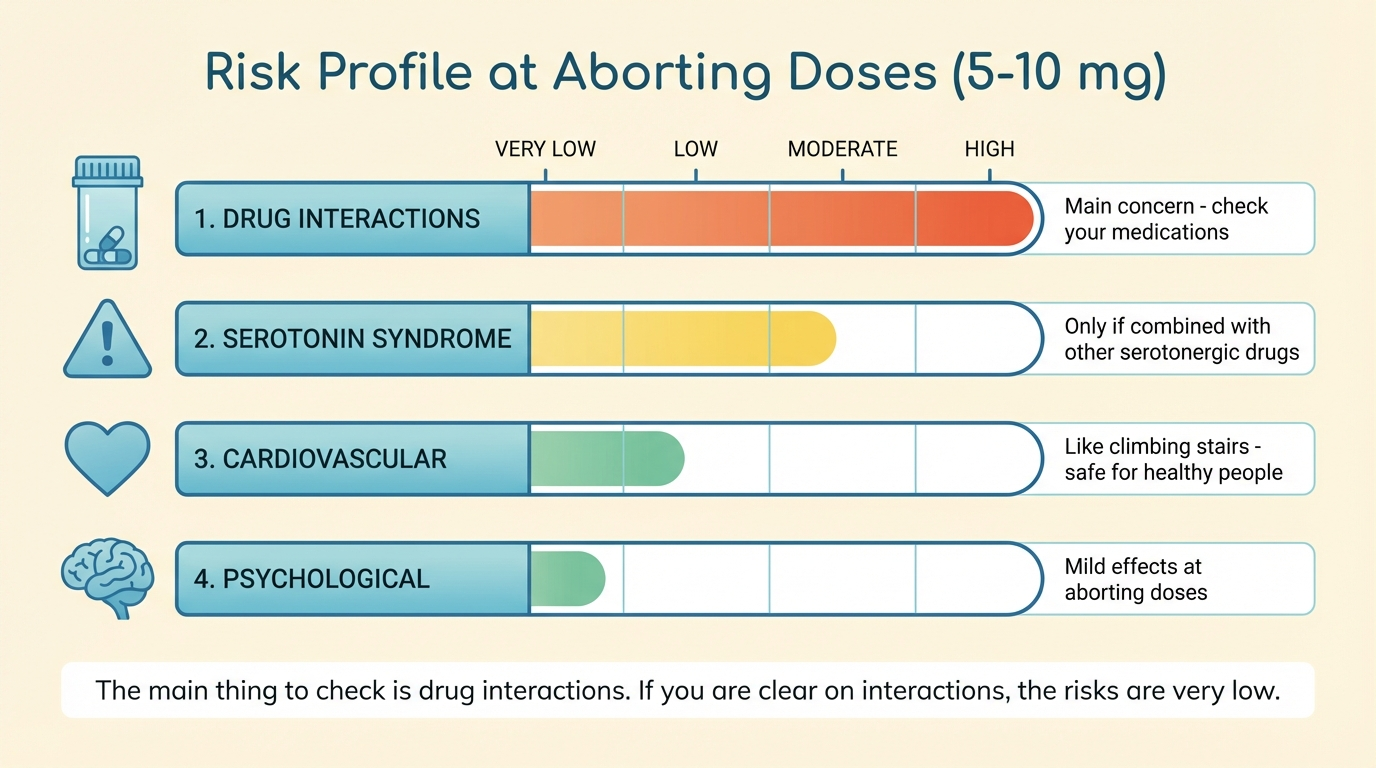
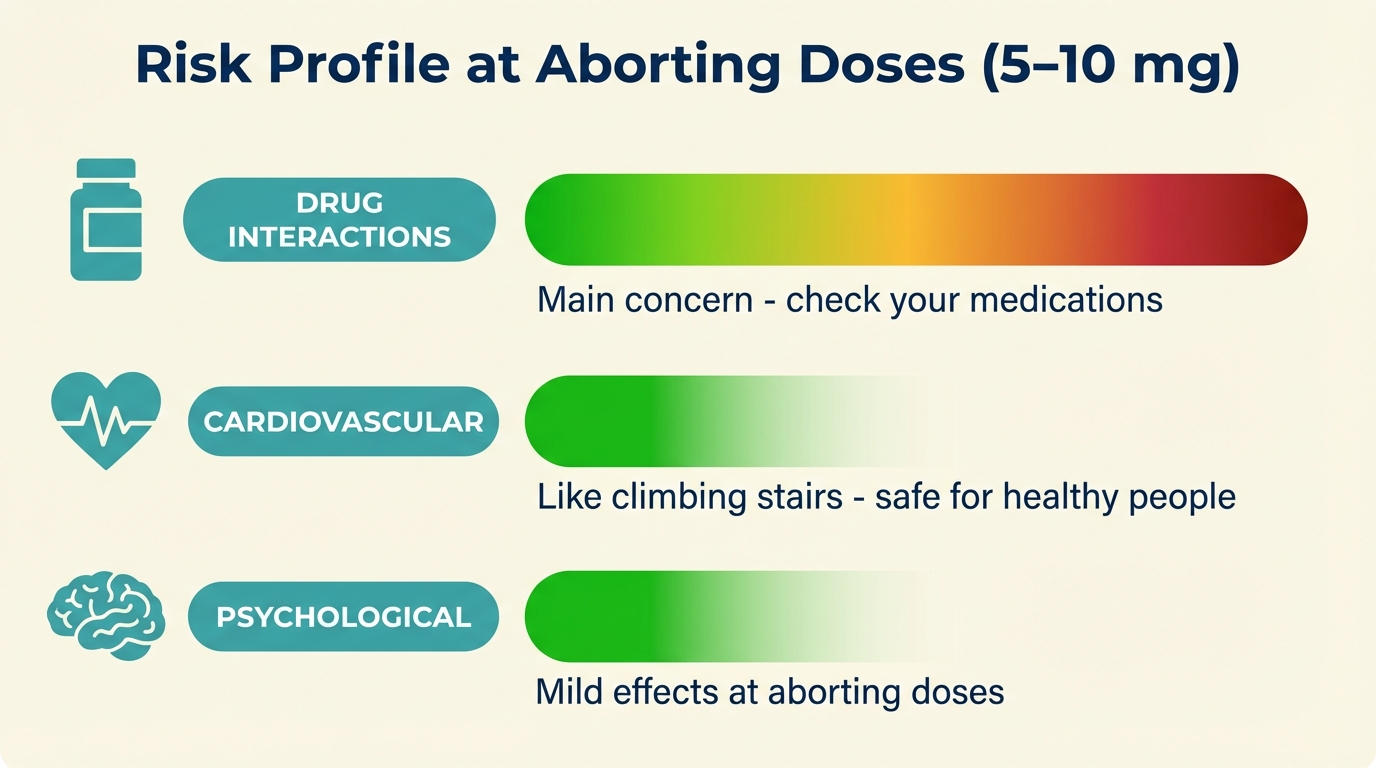
Restructure safety section for better flow and add fact-check skill
Move safety checklist and key warnings to the top so readers encounter
critical information first. Expand serotonin syndrome section with sitter
callout and clearer normal-vs-abnormal guidance. Integrate "Who Should
Not Take DMT" content into earlier sections to reduce redundancy.
Regenerate illustrations. Add fact-check skill for verifying guide claims.

diff --git a/03-safety.md b/03-safety.md
@@ -1,46 +1,139 @@
 # Safety and Drug Interactions
 
-The [basics page](02-dmt-basics.md) gave you the short version: DMT is generally low-risk, but drug interactions are the main concern. This page goes deeper. **If you take any medication, supplement, or herbal remedy, read this page before your first use.** Even if you take nothing, the sections on serotonin syndrome and who should avoid DMT are worth reading.
+## How Safe Is This?
 
-> **The bottom line up front:**
->
-> - If you take **lithium**, stop here — **do not take DMT**. The combination can cause seizures.
-> - If you take **any other medication**, check the table below before your first use.
-> - If you take **nothing**, the risks are very low. Skim the rest of this page and move on to [preparation](05-what-youll-need.md).
+The [basics page](02-dmt-basics.md) gave you the short version. Here's the fuller picture: at the low doses used to abort cluster headache attacks (5–10 mg), DMT's cardiovascular and psychological risks are very low for healthy people. The main concern — and the reason this page exists — is **drug interactions**, specifically with medications that affect serotonin.
+
+![Safety profile summary — at aborting doses, drug interactions are the primary concern while cardiovascular and psychological risks are minimal for most people](images/illustration-safety-profile-summary.jpg)
+*At aborting doses, the overall safety profile is favorable. Drug interactions are the main concern. Cardiovascular and psychological risks are minimal for most people. If you're curious, you can read more about those minimal risks below.*
 
 ---
 
-## Check Your Medications
+**Safety Checklist**
 
-DMT acts on the brain's serotonin system — serotonin is a chemical your brain uses to regulate mood, sleep, and pain. Many common medications also target this system. When two drugs affect serotonin at the same time, their effects can combine in dangerous ways. Before you use DMT for the first time, **make a list of everything you take** — prescriptions, over-the-counter medications, supplements, herbal remedies — and check it against this table.
+Complete every item on this list before your first use of DMT.
+
+- [ ] **Medications listed.** I have written down all medications, supplements, and herbal remedies I take.
+- [ ] **Interactions checked.** I have checked each one against the [drug interactions table](#check-your-medications) below.
+- [ ] **Doctor consulted (if needed).** If advised for the medications I take (see table), I have talked to my doctor.
+- [ ] **Serotonin syndrome understood.** I understand the [symptoms](#symptoms) and know when to call for help.
+- [ ] **Sitter arranged.** I have a [sitter](06-aborting-protocol.md#your-sitter-what-they-need-to-know) for my first few times, and they have also read this page.
+- [ ] **Triptan washout (if applicable).** If I take triptans, I will wait at least 24 hours after my last dose before using DMT.
+
+## Drug Interactions at a Glance
+
+DMT acts on the brain's serotonin system — serotonin is a chemical your brain uses to regulate mood, sleep, and pain. Many common medications also target this system. When two drugs affect serotonin at the same time, their effects can combine in unwanted ways.
+
+Here's the quick summary:
+
+- **Lithium** is a hard stop — **do not take DMT** while on lithium (seizure risk).
+- **MAOIs** carry medium-high risk and require a doctor's involvement.
+- **SSRIs / SNRIs** need a doctor conversation — the risk is generally low with a single medication, but it's not zero.
+- **Triptans** need a timing gap (at least 24 hours; frovatriptan: 5 days).
+- **Everything else** — check with your doctor.
+
+The danger is not taking DMT while on these medications *per se* — it's doing so **without knowing about serotonin syndrome and what to do if it occurs**. If you take any serotonergic medication, the most important thing is to understand serotonin syndrome ([next section](#serotonin-syndrome-what-you-need-to-know)), know the signs, know what to do, and make sure your [sitter](06-aborting-protocol.md#your-sitter-what-they-need-to-know) knows too.
+
+![Drug interaction risk levels — visual summary showing lithium as a hard stop, MAOIs as medium-high risk, SSRIs and SNRIs as moderate risk, triptans as low-to-moderate risk, and other serotonergic drugs as variable risk](images/illustration-drug-interaction-risk.jpg)
+*Drug interaction risk levels at a glance.*
+
+### Check Your Medications
+
+Before you use DMT for the first time, **make a list of everything you take** — prescriptions, over-the-counter medications, supplements, herbal remedies — and check it against this table.
 
 | Drug / Category | Examples (brand names) | Risk | What to do |
 | :--- | :--- | :--- | :--- |
 | **Lithium** | Lithobid, Eskalith | **Seizure risk — do not take DMT** | No workaround. DMT is not an option while on lithium. |
-| **MAOIs** | Phenelzine (Nardil), tranylcypromine (Parnate), isocarboxazid (Marplan), moclobemide (Manerix); antibiotics: linezolid; plant-based: ayahuasca, Syrian rue, changa | **High — serotonin syndrome** | Must talk to your doctor. Must always have a [sitter](06-aborting-protocol.md#your-sitter-what-they-need-to-know) (a trusted person who stays with you to monitor your safety). Read the [serotonin syndrome section](#serotonin-syndrome-what-you-need-to-know) below. |
+| **MAOIs** | Phenelzine (Nardil), tranylcypromine (Parnate), isocarboxazid (Marplan), moclobemide (Manerix); antibiotics: linezolid; plant-based: ayahuasca, Syrian rue, changa | **Medium-high — serotonin syndrome risk** | Must talk to your doctor. Must always have a [sitter](06-aborting-protocol.md#your-sitter-what-they-need-to-know). Read the [serotonin syndrome section](#serotonin-syndrome-what-you-need-to-know) below. |
 | **SSRIs / SNRIs** | Fluoxetine (Prozac), sertraline (Zoloft), paroxetine (Paxil), citalopram (Celexa), escitalopram (Lexapro), venlafaxine (Effexor), duloxetine (Cymbalta) | **Medium — serotonin effects can stack** | Talk to your doctor. |
 | **Triptans** | Sumatriptan (Imitrex), rizatriptan (Maxalt), zolmitriptan (Zomig), frovatriptan (Frova) | **Low serotonin risk, cardiovascular concern** | Wait at least 24 hours after your last triptan dose (frovatriptan: at least 5 days). See [triptans](#triptans) below. |
 | **Other serotonergic drugs** (drugs that affect serotonin) | Tricyclic antidepressants (clomipramine, imipramine), opioids (tramadol, fentanyl), dextromethorphan (in many cough medicines), St. John's Wort, amphetamines (Adderall), MDMA / ecstasy | **Variable — depends on the combination** | Talk to your doctor. |
 
 > If your medication isn't on this list, **don't assume it's safe**. Search for your medication name plus "serotonin" online, or ask your doctor or pharmacist.
 
+> **How to talk to your doctor about DMT**
+>
+> Many doctors have limited knowledge of DMT, and you may worry about being judged. Here's a suggested approach:
+>
+> 1. **Frame it as harm reduction.** "I have cluster headaches, and I've been reading about people using low-dose DMT to abort attacks. I'd like your help making sure it's safe with my medications."
+> 2. **Bring this page.** Show them the [medication table](#check-your-medications) and the [serotonin syndrome section](#serotonin-syndrome-what-you-need-to-know). Doctors respond well to specific, concrete questions.
+> 3. **Ask about your specific medications.** "Can you check whether any of my prescriptions interact with a serotonin receptor agonist?"
+> 4. **Know that they can't report you.** Doctor-patient conversations are confidential. Your doctor may advise against it, but they cannot report you to law enforcement for asking.
+
+---
+
+## Serotonin Syndrome: What You Need to Know
+
+> **Share this section with your sitter.** If you take any serotonergic medication, make sure the person who stays with you during your first uses has read this section too.
+
+Serotonin syndrome happens when your brain is flooded with too much serotonin. It's most likely when DMT is combined with another drug that also raises serotonin — especially MAOIs, or multiple serotonergic drugs stacking together. It is treatable, and knowing the signs is what makes it manageable rather than dangerous.
+
+The risk increases with higher doses and more serotonergic drugs — but it's hard to predict in advance exactly which combination or dose will trigger it. That's why we recommend talking to your doctor, starting with low doses, and having a sitter.
+
+> **Normal DMT effects vs. serotonin syndrome:** A faster heartbeat, sweating, and dilated pupils are also normal effects of DMT. The key difference is **severity and combination**. A slightly faster heartbeat on its own is expected. But several of these symptoms together — especially if they're severe, or getting worse rather than fading — is what distinguishes serotonin syndrome from normal DMT effects. When in doubt, call for help.
+
+### Symptoms
+
+**Call emergency services (911 / 112 / 999) immediately if you experience any of these:**
+
+- Seizure (uncontrolled shaking, loss of consciousness)
+- High fever (above 38.5°C / 101.3°F)
+- Loss of consciousness or fainting
+- Severe muscle rigidity (your body feels locked up)
+- Fast or irregular heartbeat combined with feeling very unwell
+- Any symptom that is rapidly getting worse
+
+**Call your doctor if you notice a combination of these milder symptoms:**
+
+- Agitation or unusual restlessness
+- Confusion
+- Dilated pupils
+- Rapid heartbeat (steady, not irregular)
+- Heavy sweating
+- Shivering or goosebumps
+- Muscle twitching or jerking
+- Diarrhea
+
+### What to Do
+
+1. **Stop taking DMT** (and any other serotonergic drugs).
+2. **Assess severity** using the symptom lists above.
+3. **If severe or worsening:** Call emergency services immediately. Tell them you took DMT and list all your medications. Accurate information helps them treat you correctly.
+4. **If mild and stable:** Call your doctor. Do not take more DMT until you've been cleared.
+5. **If you're on MAOIs:** Stay with your sitter for at least one hour after taking DMT. MAOIs can delay the onset of serotonin syndrome — you might feel fine at first, then develop symptoms later.
+
+If you ever need emergency medical help after taking DMT, it's crucial that the medical team knows what you took. **Tell them you took DMT, and list every other medication.** Serotonin syndrome is treatable, but it needs to be correctly identified.
+
+> **Will I get in trouble?** Emergency medical staff are there to help you, not to report you to police. In many jurisdictions, laws protect people who call for help during a drug-related emergency. In any case, **your safety comes first** — always call for help if you need it.
+
+### Resources
+
+For more detailed information about serotonin syndrome:
+
+- [Demystifying Serotonin Syndrome](https://www.cfp.ca/content/64/10/720) (Canadian Family Physician) — includes a [patient info sheet](https://www.cfp.ca/content/cfp/suppl/2018/10/11/64.10.720.DC1/720_SS_Infographic_Patient.pdf) you can print
+- [Serotonin Syndrome](https://my.clevelandclinic.org/health/diseases/17687-serotonin-syndrome) (Cleveland Clinic)
+- [Serotonin Syndrome](https://www.mayoclinic.org/diseases-conditions/serotonin-syndrome/symptoms-causes/syc-20354758) (Mayo Clinic)
+
+![Serotonin syndrome symptom spectrum — mild symptoms on the left, severe symptoms on the right, with a clear dividing line showing when to call emergency services](images/illustration-serotonin-syndrome-spectrum.jpg)
+*Serotonin syndrome symptoms range from mild (left) to severe (right). The red line marks when to call emergency services.*
+
 ---
 
 ## Drug Interactions in Detail
 
-This section explains each category from the table above. Read the parts that apply to you.
+This section explains each drug category from the [table above](#check-your-medications) in more depth. Read the parts that apply to you.
 
 ### Lithium
 
 Lithium is a mood stabilizer prescribed for bipolar disorder and also used as a preventative treatment for cluster headaches. **The combination of lithium and DMT can cause seizures.** This risk is based on reports primarily involving related psychedelics like LSD and psilocybin.
 
-If you take lithium, do not attempt to taken DMT.
+If you take lithium, do not attempt to take DMT.
 
 ### MAOIs
 
-MAOIs (monoamine oxidase inhibitors) are medications that slow down the body's ability to break down serotonin. This creates two distinct dangers when combined with DMT:
+MAOIs (monoamine oxidase inhibitors) are medications that slow down the body's ability to break down serotonin. This creates two distinct concerns when combined with DMT:
 
-1. **Serotonin syndrome.** Because MAOIs prevent your body from clearing serotonin normally, serotonin can build up to dangerous levels. Symptoms may develop during or even hours after taking DMT (because the MAOI keeps serotonin elevated for a long time). See the [serotonin syndrome section](#serotonin-syndrome-what-you-need-to-know) below.
+1. **Serotonin syndrome.** Because MAOIs prevent your body from clearing serotonin normally, serotonin can build up to dangerous levels. Symptoms may develop during or even hours after taking DMT (because the MAOI keeps serotonin elevated for a long time). See the [serotonin syndrome section](#serotonin-syndrome-what-you-need-to-know) above.
 
 2. **Intensified and prolonged trip.** MAOIs make DMT dramatically stronger and longer-lasting. A dose that would normally produce mild effects for 10–20 minutes can instead produce an intense experience lasting 2–4 hours. This can prove psychologically overwhelming.
 
@@ -92,73 +185,6 @@ Drugs in this category include:
 
 > **General advice for everyone:** Make a complete list of everything you take — prescriptions, over-the-counter medications, supplements, herbal remedies. Talk to your doctor. Have a [sitter](06-aborting-protocol.md#your-sitter-what-they-need-to-know) for your first few times.
 
-![Drug interaction risk levels — visual summary showing lithium as a hard stop, MAOIs as high risk, SSRIs and SNRIs as moderate risk, triptans as low-to-moderate risk, and other serotonergic drugs as variable risk](images/illustration-drug-interaction-risk.jpg)
-*Drug interaction risk levels at a glance. Red means do not combine. Orange means high risk — talk to your doctor. Yellow means moderate risk. Blue means low-to-moderate risk. Gray means variable risk.*
-
-> **How to talk to your doctor about DMT**
->
-> Many doctors have limited knowledge of DMT, and you may worry about being judged. Here's a suggested approach:
->
-> 1. **Frame it as harm reduction.** "I have cluster headaches, and I've been reading about people using low-dose DMT to abort attacks. I'd like your help making sure it's safe with my medications."
-> 2. **Bring this page.** Show them the [medication table](#check-your-medications) and the [serotonin syndrome section](#serotonin-syndrome-what-you-need-to-know). Doctors respond well to specific, concrete questions.
-> 3. **Ask about your specific medications.** "Can you check whether any of my prescriptions interact with a serotonin receptor agonist?"
-> 4. **Know that they can't report you.** Doctor-patient conversations are confidential. Your doctor may advise against it, but they cannot report you to law enforcement for asking.
-
----
-
-## Serotonin Syndrome: What You Need to Know
-
-Serotonin syndrome happens when your brain is flooded with too much serotonin. It's most likely when DMT is combined with another drug that also raises serotonin — especially MAOIs, or multiple serotonergic drugs stacking together.
-
-The risk of serotonin syndrome increases with higher doses and more serotonergic drugs — but it's hard to predict in advance exactly which combination or dose will trigger it. That's why we recommend talking to your doctor, starting with low doses, and having a sitter.
-
-If you ever need emergency medical help after taking DMT, it's crucial that the medical team knows what you took. **Tell them you took DMT, and list every other medication.** Serotonin syndrome is treatable, but it needs to be correctly identified.
-
-> **Will I get in trouble?** Emergency medical staff are there to help you, not to report you to police. In many jurisdictions, laws protect people who call for help during a drug-related emergency. In any case, **your safety comes first** — always call for help if you need it.
-
-### Symptoms
-
-**Call emergency services (911 / 112 / 999) immediately if you experience any of these:**
-
-- Seizure (uncontrolled shaking, loss of consciousness)
-- High fever (above 38.5°C / 101.3°F)
-- Loss of consciousness or fainting
-- Severe muscle rigidity (your body feels locked up)
-- Fast or irregular heartbeat combined with feeling very unwell
-- Any symptom that is rapidly getting worse
-
-**Call your doctor if you notice a combination of these milder symptoms:**
-
-- Agitation or unusual restlessness
-- Confusion
-- Dilated pupils
-- Rapid heartbeat (steady, not irregular)
-- Heavy sweating
-- Shivering or goosebumps
-- Muscle twitching or jerking
-- Diarrhea
-
-> **Normal DMT effects vs. serotonin syndrome:** A faster heartbeat, sweating, and dilated pupils are also normal effects of DMT. The key difference is **severity and combination**. A slightly faster heartbeat on its own is expected. But several of these symptoms together — especially if they're severe, or getting worse rather than fading — is what distinguishes serotonin syndrome from normal DMT effects. When in doubt, call for help.
-
-### What to Do
-
-1. **Stop taking DMT** (and any other serotonergic drugs).
-2. **Assess severity** using the symptom lists above.
-3. **If severe or worsening:** Call emergency services immediately. Tell them you took DMT and list all your medications. Accurate information helps them treat you correctly.
-4. **If mild and stable:** Call your doctor. Do not take more DMT until you've been cleared.
-5. **If you're on MAOIs:** Stay with your sitter for at least one hour after taking DMT. MAOIs can delay the onset of serotonin syndrome — you might feel fine at first, then develop symptoms later.
-
-### Resources
-
-For more detailed information about serotonin syndrome:
-
-- [Demystifying Serotonin Syndrome](https://www.cfp.ca/content/64/10/720) (Canadian Family Physician) — includes a [patient info sheet](https://www.cfp.ca/content/cfp/suppl/2018/10/11/64.10.720.DC1/720_SS_Infographic_Patient.pdf) you can print
-- [Serotonin Syndrome](https://my.clevelandclinic.org/health/diseases/17687-serotonin-syndrome) (Cleveland Clinic)
-- [Serotonin Syndrome](https://www.mayoclinic.org/diseases-conditions/serotonin-syndrome/symptoms-causes/syc-20354758) (Mayo Clinic)
-
-![Serotonin syndrome symptom spectrum — mild symptoms on the left, severe symptoms on the right, with a clear dividing line showing when to call emergency services](images/illustration-serotonin-syndrome-spectrum.jpg)
-*Serotonin syndrome symptoms range from mild (left) to severe (right). The red line marks when to call emergency services.*
-
 ---
 
 ## Cardiovascular Effects
@@ -200,46 +226,6 @@ The scientific evidence points to a **safe psychological profile** for DMT:
 - **Dose context:** Clinical safety studies often test doses far higher than the 5–10 mg typically needed to abort attacks.
 
 **Important exception:** If you have a **psychotic disorder** (such as schizophrenia or schizoaffective disorder) or a **close family history** (a parent or sibling) of one, exercise extreme caution. People with psychotic disorders are usually excluded from clinical trials, so we have very little data on the risks for them. Talk to your doctor, and don't take DMT unless you're confident it's safe for you.
-
-![Safety profile summary — at aborting doses, drug interactions are the primary concern while cardiovascular and psychological risks are minimal for most people](images/illustration-safety-profile-summary.jpg)
-*At aborting doses, the overall safety profile is favorable. Drug interactions are the main concern. Cardiovascular and psychological risks are minimal for most people.*
-
----
-
-## Who Should Not Take DMT
-
-**Do not take DMT if:**
-
-- You take **lithium** (seizure risk)
-- You have a **psychotic disorder** (e.g., schizophrenia) or a close family history of one
-
-**Talk to your doctor first if:**
-
-- You take an MAOI
-- You take an SSRI, SNRI, or other serotonergic medication
-- You take triptans regularly
-- You have high blood pressure or a heart condition
-- You have a history of stroke or seizures
-- You take multiple medications or supplements
-
-**You are likely clear if:**
-
-- You've checked the [medication table](#check-your-medications) above and none of your medications are listed
-- You're in generally good health
-- You plan to follow the [puff-wait-and-repeat protocol](06-aborting-protocol.md)
-
----
-
-## Safety Checklist
-
-Complete every item on this list before your first use of DMT.
-
-- [ ] **Medications listed.** I have written down all medications, supplements, and herbal remedies I take.
-- [ ] **Interactions checked.** I have checked each one against the [drug interactions table](#check-your-medications) above.
-- [ ] **Doctor consulted (if needed).** If any of my medications are listed in the table, I have talked to my doctor.
-- [ ] **Serotonin syndrome understood.** I understand the [symptoms](#symptoms) and know when to call for help.
-- [ ] **Sitter arranged.** I have a [sitter](06-aborting-protocol.md#your-sitter-what-they-need-to-know) for my first few times, and they have also read this page.
-- [ ] **Triptan washout (if applicable).** If I take triptans, I will wait at least 24 hours after my last dose before using DMT.
 
 ---
 

diff --git a/.claude/skills/fact-check/SKILL.md b/.claude/skills/fact-check/SKILL.md
@@ -1,0 +1,107 @@
+---
+name: fact-check
+description: Use when the user asks to fact-check a guide section, verify claims, or says /fact-check. Takes a markdown filename as argument.
+---
+
+# Fact-Check a Guide Section
+
+Launch fact-checking agent(s) to verify all factual claims in a markdown guide file using web search.
+
+## Input
+
+The argument is a markdown filename (e.g., `06-aborting-protocol.md`). Resolve it from the project root.
+
+## Fact-Check Steps
+
+### 1. Read the file
+
+Read the input markdown file to understand its structure, length, and identify all factual claims that need verification.
+
+### 2. Launch fact-checker agent(s)
+
+Use the Task tool to launch fact-checker agent(s) in the background:
+
+**For short files (under ~150 lines):**
+- Launch a single fact-checker agent
+
+**For long files (150+ lines):**
+- Split the file into 2-3 subsection ranges
+- Launch separate fact-checker agents for each range (all in parallel, in a single message)
+- Tell each agent which sections/line ranges to focus on
+
+**Agent configuration:**
+- **Subagent type:** `general-purpose`
+- **Prompt template:**
+
+```
+Read the fact-checker agent instructions from /Users/mace/claude-code/guide_claude/.claude/agents/fact-checker.md and follow them exactly.
+
+The file to review is: /Users/mace/claude-code/guide_claude/INPUT_FILE.md
+
+[For split files: Focus on lines X-Y, which covers sections: SECTION_NAMES]
+
+Read the file, then perform your fact-checking review as instructed. Use web search to verify every factual claim. Return your complete fact-checking report.
+```
+
+### 3. Wait for agent(s) and collect results
+
+Use the Read tool to check background agent output files. Wait for all fact-checker agents to complete before proceeding.
+
+### 4. Synthesize the fact-check report
+
+After all agents have returned their reviews, produce a unified report with these sections:
+
+#### Report format
+
+```markdown
+## Fact-Check Report: [filename]
+
+### Critical Errors (must fix immediately)
+- [Claims that are WRONG or UNSUPPORTED and could cause harm]
+- [Missing critical safety information]
+
+### High Priority Issues
+- [Claims that are PARTIALLY SUPPORTED or need qualification]
+- [Important claims that lack sufficient nuance]
+
+### Medium Priority Issues
+- [Claims that are supported but could be stated more precisely]
+- [Minor factual issues that don't affect safety]
+
+### Low Priority Notes
+- [Minor wording suggestions for clarity]
+- [Additional context that could strengthen claims]
+
+### Verification Summary Table
+
+| Claim | Status | Priority | Source(s) | Suggested Action |
+|-------|--------|----------|-----------|------------------|
+| [Claim text] | SUPPORTED / PARTIALLY SUPPORTED / UNSUPPORTED / WRONG | HIGH / MEDIUM / LOW | [URLs] | [Action] |
+| ... | ... | ... | ... | ... |
+
+### Full Fact-Checker Report(s)
+<details>
+<summary>Fact-Checker Report [1]</summary>
+[Full report]
+</details>
+
+[Additional fact-checker reports if file was split]
+```
+
+### 5. Suggest corrections
+
+After the report, propose specific corrections for any claims that need fixing. For each correction:
+- Quote the original claim
+- State the issue (wrong, unsupported, partially supported, needs qualification)
+- Provide the suggested replacement text
+- Include supporting source(s)
+
+Ask the user which corrections they'd like to apply.
+
+## Notes
+
+- The fact-checker agent should use web search extensively to verify claims
+- This is a medical harm-reduction guide — accuracy and precision are critical
+- For very long files (300+ lines), consider splitting into 3-4 parallel agents by major section
+- If sources conflict, note the disagreement and present both perspectives
+- Flag any claims that can't be verified due to lack of available research
